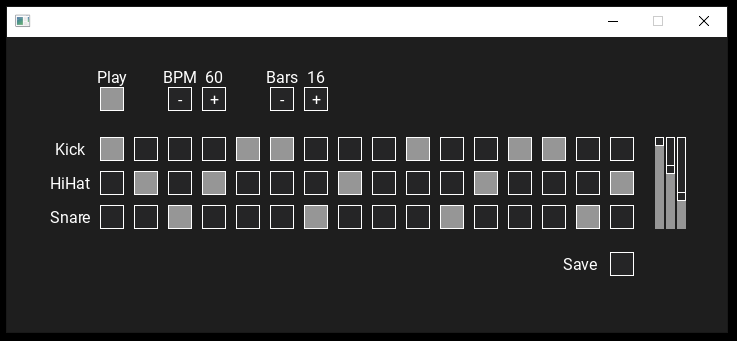
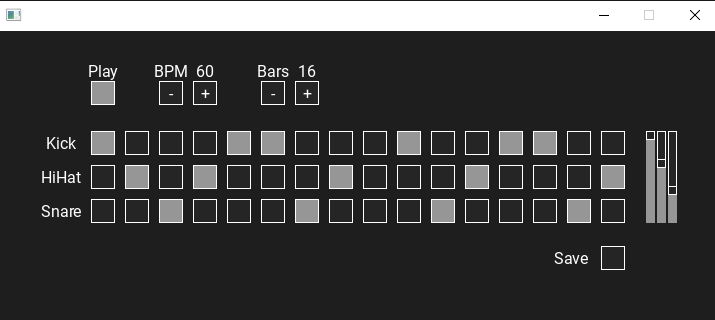
Crop image and fix readme's image link again

diff --git a/README.md b/README.md
@@ -2,7 +2,7 @@
 
 a <u>s</u>imple <u>s</u>ixteen <u>s</u>tep <u>s</u>equencer offering 4/4 time
 
-![Fours](./assets/Fours.png)
+![Fours](https://github.com/nialredha/Fours/blob/main/assets/Fours.PNG)
 
 ## Build in Windows
 
